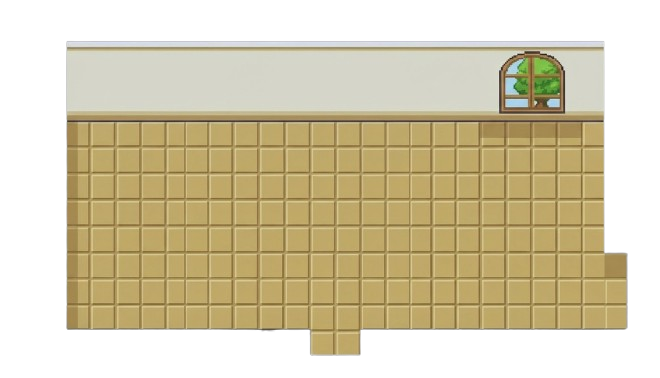
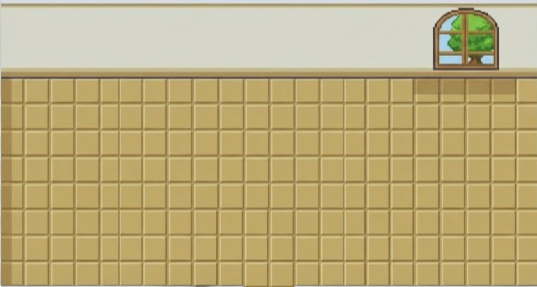
fix(loja): arruma a porta e a colisão na borda da cena (#158)

diff --git a/public/src/cenas/cena-cidade.js b/public/src/cenas/cena-cidade.js
@@ -96,7 +96,7 @@ export class GameScene extends Phaser.Scene {
             {
                 nomeLoja: 'Pet',
                 cena: 'petScene',
-                bgScale: 3,
+                bgScale: 3.3,
 
                 lojaFisicaOriginX: 0.62,
                 lojaFisicaOriginY: 0.61,
@@ -104,11 +104,11 @@ export class GameScene extends Phaser.Scene {
                 npcX: 800,
                 npcY: 250,
 
-                portaX: 270,
-                portaY: 365,
+                portaX: 180,
+                portaY: 255,
 
-                playerX: 350,
-                playerY: 450,
+                playerX: 200,
+                playerY: 310,
             },
             {
                 nomeLoja: 'Movel',
